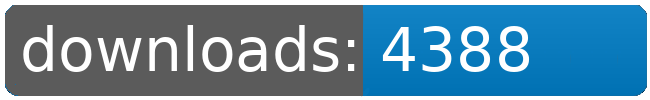
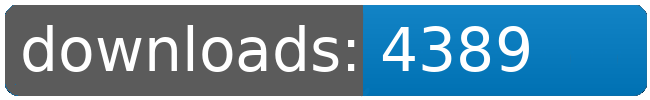
dl log written

Changed region(s): [[0.7692, 0.27, 0.8308, 0.72]]

diff --git a/README.md b/README.md
@@ -32,8 +32,8 @@
 		<td>4346</td>
 		<td>4362</td>
 		<td>4377</td>
-		<td>4388</td>
-		<td>+ 11</td>
+		<td>4389</td>
+		<td>+ 12</td>
 	</tr>
 	<tr>
 		<td>Fundamental.Outfit.Expansion</td>
@@ -43,8 +43,8 @@
 		<td>5421</td>
 		<td>5435</td>
 		<td>5452</td>
-		<td>5462</td>
-		<td>+ 10</td>
+		<td>5463</td>
+		<td>+ 11</td>
 	</tr>
 	<tr>
 		<td>Jaws</td>
@@ -109,8 +109,8 @@
 		<td></td>
 		<td></td>
 		<td></td>
-		<td>36625</td>
-		<td>85</td>
+		<td>36627</td>
+		<td>87</td>
 	</tr>
 </table>
 </sub></sup>
@@ -135,8 +135,8 @@
 		<td>5421</td>
 		<td>5435</td>
 		<td>5452</td>
-		<td>5462</td>
-		<td>+ 10</td>
+		<td>5463</td>
+		<td>+ 11</td>
 	</tr>
 	<tr>
 		<td>Louise.Conglomerate.Shipyards</td>
@@ -190,8 +190,8 @@
 		<td>4346</td>
 		<td>4362</td>
 		<td>4377</td>
-		<td>4388</td>
-		<td>+ 11</td>
+		<td>4389</td>
+		<td>+ 12</td>
 	</tr>
 	<tr>
 		<td>Jaws</td>
@@ -223,8 +223,8 @@
 		<td></td>
 		<td></td>
 		<td></td>
-		<td>36625</td>
-		<td>85</td>
+		<td>36627</td>
+		<td>87</td>
 	</tr>
 </table>
 </sub></sup>
